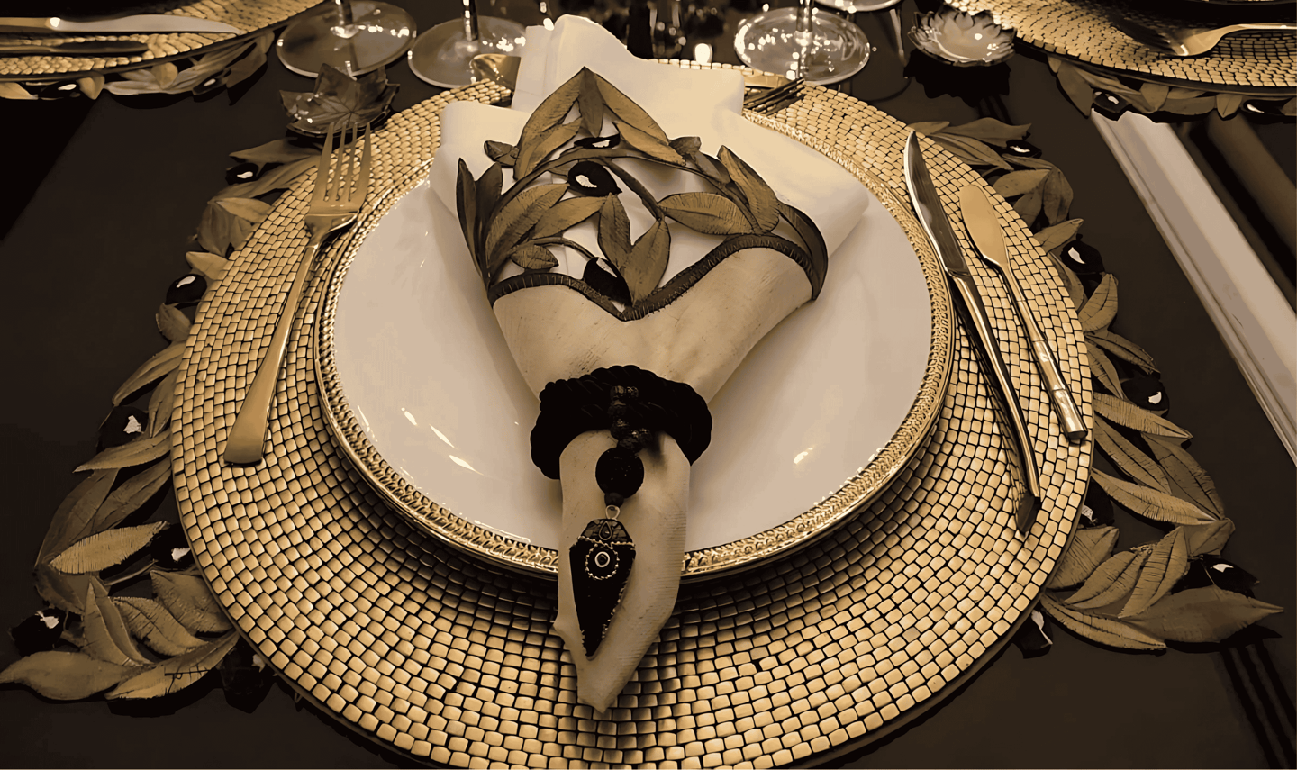
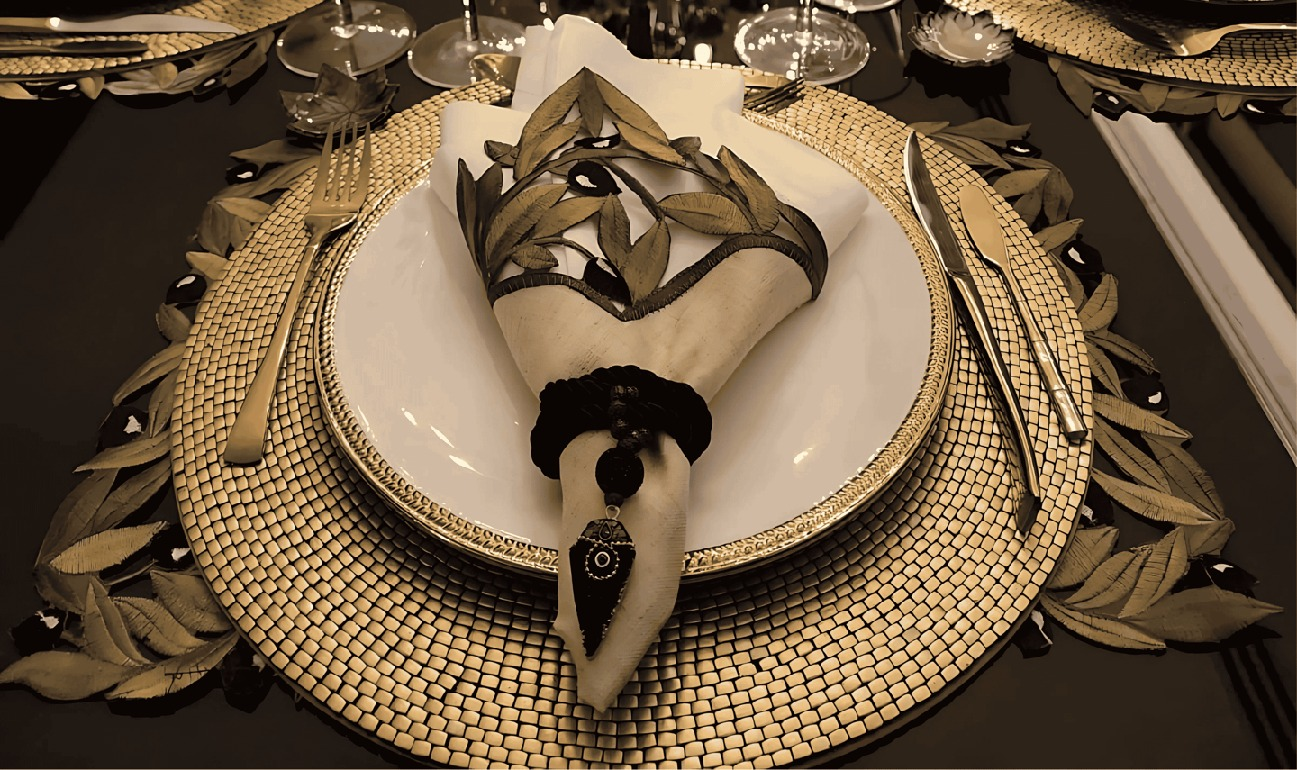
feat: Atualizar imagens do carrossel da homepage na ordem correta
- Slide 1: Mesa posta luxuosa (pratos dourados, oliveira)
- Slide 2: Búzios/conchas (item decorativo)
- Slide 3: Mesa posta com tema abelha/mel/limão
- Slide 4: Sala verde esmeralda (Moët Chandon)
- Todas as 4 imagens substituídas e organizadas na ordem correta

diff --git a/ileala-website/client/src/pages/Home.tsx b/ileala-website/client/src/pages/Home.tsx
@@ -127,12 +127,12 @@ export default function Home() {
               </div>
             </CarouselItem>
 
-            {/* Slide 3 - Banheiro luxuoso com mármore */}
+            {/* Slide 3 - Mesa posta com tema abelha/mel/limão */}
             <CarouselItem className="h-full pl-0">
               <div className="relative h-[70vh] min-h-[500px] w-full">
                 <img 
-                  src="/images/hero_carousel_3.jpeg?v=3" 
-                  alt="ILE ALA Elegant Design - Luxury Bathroom"
+                  src="/images/hero_carousel_3.jpeg?v=4" 
+                  alt="ILE ALA Elegant Table Setting - Bee and Honey Theme"
                   className="absolute inset-0 w-full h-full object-cover"
                 />
                 <div className="absolute inset-0 bg-black/20" />
